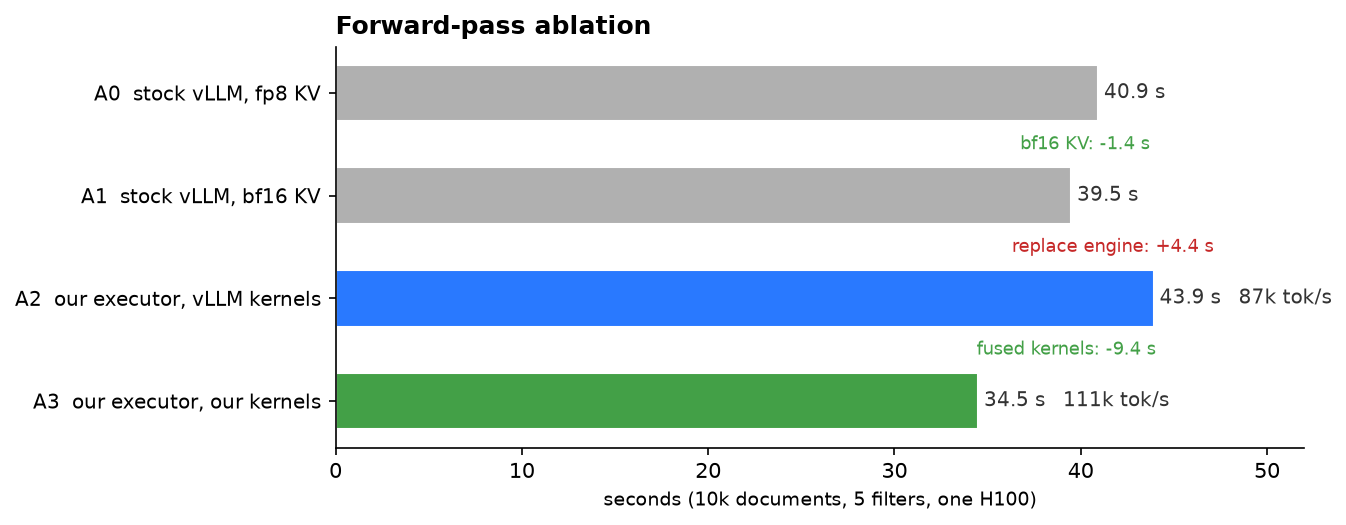
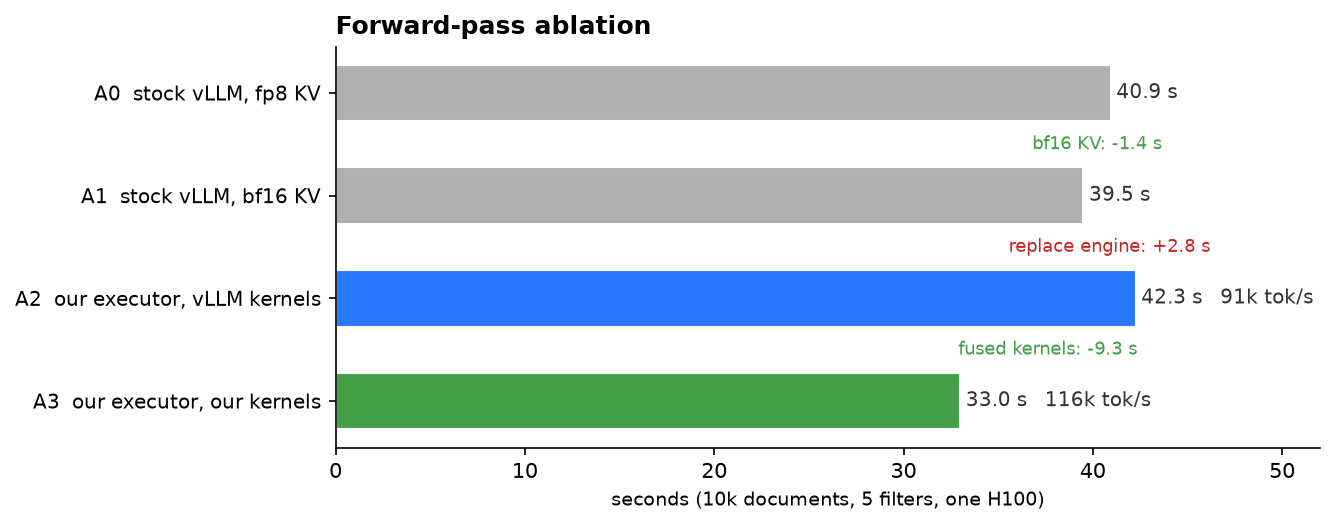
Re-measure the ablation with the direct KV write; drop the profile figure
A2 42.3 s, A3 33.0 s (both predicted within 1.5%). The ladder figure
and report now reflect the current executor. The profile table is
recomputed from the post-fix chrome traces: A2 11.01 us/token, A3
8.60; the KV write (kv_row_scatter, 0.09 us/token) is now cheaper
than stock's cache write (0.43). The profile PNG duplicated the
report's table - removed. The profile cell now excludes aten::
wrappers from the buckets (they double-count their kernels).

diff --git a/quail/reports/make_ablation_plots.py b/quail/reports/make_ablation_plots.py
@@ -83,47 +83,3 @@ ax.set_title("Forward-pass ablation", fontsize=12, fontweight="bold",
 fig.tight_layout()
 fig.savefig(OUT / "ablation_ladder.png", bbox_inches="tight")
 print("wrote", OUT / "ablation_ladder.png")
-
-# ---------------- profile: where A2's time goes vs A3 -----------------
-# Per-token GPU kernel time by bucket, from the chrome traces banked
-# in results/ablation_profile.json (kernel events only).
-
-prof = load("ablation_profile.json")
-buckets = ["gemm", "attention", "small kernels", "KV/copies", "other"]
-
-
-def bucketed(rung):
-    cats = prof["rungs"][rung]["category_us_per_token"]
-    small = cats.get("vllm_elementwise", 0) + cats.get("quant", 0) \
-        + cats.get("triton_fused", 0)
-    return [cats.get("gemm", 0), cats.get("attention", 0), small,
-            cats.get("copies", 0), cats.get("other", 0)]
-
-
-a2 = bucketed("A2")
-a3 = bucketed("A3")
-
-fig, ax = plt.subplots(figsize=(9, 3.2), dpi=150)
-y = list(range(len(buckets)))
-h = 0.34
-ax.barh([i - h / 2 for i in y], a2, height=h, color=BLUE,
-        label="A2: our executor, vLLM kernels")
-ax.barh([i + h / 2 for i in y], a3, height=h, color=GREEN,
-        label="A3: our executor, our kernels")
-for i, (v2, v3) in enumerate(zip(a2, a3)):
-    ax.text(v2 + 0.06, i - h / 2, f"{v2:.2f}", va="center", fontsize=8.5,
-            color=DARK)
-    ax.text(v3 + 0.06, i + h / 2, f"{v3:.2f}", va="center", fontsize=8.5,
-            color=DARK)
-ax.set_yticks(y)
-ax.set_yticklabels(buckets, fontsize=9.5)
-ax.invert_yaxis()
-ax.set_xlabel("microseconds per token (GPU kernel time)", fontsize=9)
-ax.set_xlim(0, 6.6)
-ax.legend(fontsize=8.5, frameon=False, loc="lower right")
-ax.spines[["top", "right"]].set_visible(False)
-ax.set_title("Where the time goes per token: the fused kernels remove "
-             "2.4 µs/token", fontsize=12, fontweight="bold", loc="left")
-fig.tight_layout()
-fig.savefig(OUT / "ablation_profile.png", bbox_inches="tight")
-print("wrote", OUT / "ablation_profile.png")

diff --git a/quail/ablations/forward_pass.py b/quail/ablations/forward_pass.py
@@ -457,10 +457,11 @@ def profile_packed(n_docs: int = 3000) -> str:
                 getattr(ev, "self_cuda_time_total", 0)
             if not cuda_us:
                 continue
-            # skip op wrappers ("_C::...") and runtime events: they
-            # carry the same device time as the kernel they launched
-            # and would double-count it
-            if ev.key.startswith("_C::") or "Command Buffer" in ev.key:
+            # skip op wrappers ("_C::...", "aten::...") and runtime
+            # events: they carry the same device time as the kernel
+            # they launched and would double-count it
+            if (ev.key.startswith(("_C::", "aten::"))
+                    or "Command Buffer" in ev.key):
                 continue
             cat = _categorize(ev.key)
             cats[cat] = cats.get(cat, 0.0) + cuda_us

diff --git a/quail/reports/2026-08-19-forward-pass-ablation.md b/quail/reports/2026-08-19-forward-pass-ablation.md
@@ -5,8 +5,7 @@ Date: 2026-08-19. One H100 on Modal, Qwen3 4B fp8.
 We ran the same workload (10,000 documents, five filter stages,
 ~3.83 million input tokens) through four configurations, each adding
 one change to the previous one. The question: where does the speed
-come from? Figures: `plots/ablation_ladder.png` and
-`plots/ablation_profile.png`.
+come from? Figure: `plots/ablation_ladder.png`.
 
 ## The four configurations
 
@@ -25,25 +24,25 @@ Each configuration ran twice. The two runs agreed within 0.5 seconds.
 |---|---|---|---|
 | A0 | 40.9 s | 95,800 | — |
 | A1 | 39.5 s | 99,400 | 1.4 s faster (stopped the 8-bit KV conversion) |
-| A2 | 43.9 s | 87,400 | **4.4 s slower** (replaced the engine, still using vLLM's small kernels) |
-| A3 | 34.5 s | 111,100 | 9.4 s faster (our three fused kernels) |
+| A2 | 42.3 s | 90,800 | **2.8 s slower** (replaced the engine, still using vLLM's small kernels) |
+| A3 | 33.0 s | 116,200 | 9.3 s faster (our three fused kernels) |
 
-End to end: 39.5 s (stock bf16) to 34.5 s (our executor) = 1.15x.
+End to end: 39.5 s (stock bf16) to 33.0 s (our executor) = 1.20x.
 
 ## What we learned
 
-**Replacing the engine made things slower, not faster.** A2 (43.9 s)
+**Replacing the engine made things slower, not faster.** A2 (42.3 s)
 is slower than stock bf16 (39.5 s). A kernel-level profile of both
-packed configurations (`results/ablation_profile.json`, figure
-`plots/ablation_profile.png`) shows why. GPU kernel time per token:
+packed configurations (`results/ablation_profile.json`) shows why.
+GPU kernel time per token:
 
 | work | stock vLLM fp8 (banked engine profile) | A2 | A3 |
 |---|---|---|---|
-| matrix multiplies | 5.52 µs | 5.18 µs | 5.46 µs |
+| matrix multiplies | 5.52 µs | 5.08 µs | 5.42 µs |
 | attention | 0.81 µs | 0.79 µs | 0.85 µs |
-| small kernels (normalize, quantize, silu, rotate) | 4.00 µs | 4.22 µs | 1.87 µs |
-| KV storage work | 0.43 µs | 1.08 µs | 0.63 µs |
-| **total** | **10.77 µs** | **11.35 µs** | **8.91 µs** |
+| small kernels (normalize, quantize, silu, rotate) | 4.00 µs | 4.21 µs | 1.87 µs |
+| KV storage work | 0.43 µs | 0.84 µs | 0.38 µs |
+| **total** | **10.77 µs** | **11.01 µs** | **8.60 µs** |
 
 Three facts fall out:
 
@@ -52,22 +51,25 @@ Three facts fall out:
   (The multiplies are even slightly faster per token at our larger
   batch size.)
 - The small kernels in A2 are vLLM's own, and they cost the same per
-  token in our loop as inside the engine (4.22 vs 4.00 µs). No win
+  token in our loop as inside the engine (4.21 vs 4.00 µs). No win
   there.
 - What tips A2 under stock is the price of keeping KV our way:
-  scattering each document's KV into pages and building the block
-  tables that attention reads through, plus two extra copies per
-  layer inside vLLM's unfused qk-norm path. That is 1.08 µs/token
-  against the engine's 0.43 for a plain cache write. A2 also avoids
+  writing each document's KV into pages, building the block tables
+  that attention reads through, the answer-merge write-back, plus two
+  extra copies per layer inside vLLM's unfused qk-norm path. That is
+  0.84 µs/token against the engine's 0.43 for a plain cache write.
+  (The write itself is one small kernel per layer, `kv_row_scatter`,
+  added after the first version of this study showed the old
+  gather-plus-scatter cost 0.50 µs/token on its own.) A2 also avoids
   re-reading 4.7 million cached tokens (the stock client pays
   attention over them across stages), but those re-reads are cheap
   next to the matrix multiplies and do not close the gap.
 
-**All the speed comes from three fused kernels.** A2 to A3 is a 9.4
-second drop, 2.5 microseconds per token of wall. The profile shows
-2.8 µs/token of GPU work removed: 2.35 from fusing the small kernels
+**All the speed comes from three fused kernels.** A2 to A3 is a 9.3
+second drop, 2.4 microseconds per token of wall. The profile shows
+2.8 µs/token of GPU work removed: 2.34 from fusing the small kernels
 (four quantize passes per layer become one; normalize+add+quantize
-and silu+multiply+quantize each become one pass) and 0.45 from the
+and silu+multiply+quantize each become one pass) and 0.46 from the
 copies the fused qk-norm kernel avoids. Both A2 and A3 are GPU-bound
 (wall equals GPU-busy time within 0.1 s), so removed GPU work lands
 directly in the wall. The same fusion measured 2.9 µs/token of kernel
@@ -134,8 +136,8 @@ container and one model load.
 - `results/ablation_profile.json` — per-kernel-category GPU time for
   A2 and A3 (kernel events only, recomputed from the chrome traces;
   the traces are on the Modal results volume).
-- `reports/plots/ablation_ladder.png`,
-  `reports/plots/ablation_profile.png` — generated by
+- `reports/plots/ablation_ladder.png` — generated by
   `reports/make_ablation_plots.py`.
-- Logs: `results/ablation_packed4.log`, `results/ablation_stock_a0.log`,
-  `results/ablation_stock_a1.log`, `results/ablation_profile.log`.
+- Logs: `results/ablation_packed_postfix.log`,
+  `results/ablation_stock_a0.log`, `results/ablation_stock_a1.log`,
+  `results/ablation_profile_postfix.log`.
